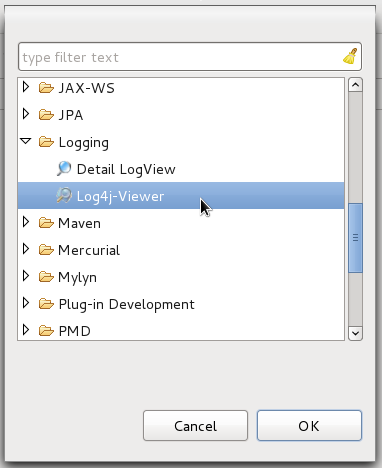
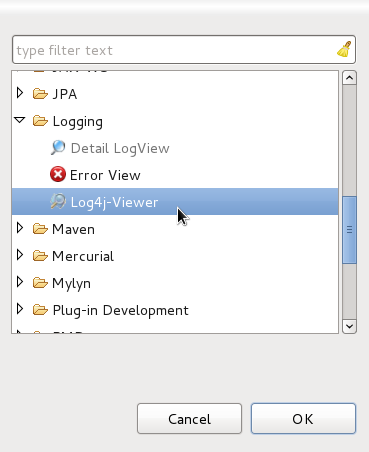
Tutorial project site was updated.

Changed region(s): [[0.0, 0.0, 1.0, 1.0]]

diff --git a/tutorial-site/index.html b/tutorial-site/index.html
@@ -129,7 +129,11 @@ Let's have a look into <b>LogView</b>. I've loaded some logs from text file:<p>
 <img alt="Image of main preferences" src="images/logview_description.png" hspace="6"><br><p>
 When we select any log in LogView table, <b>Detail LogView</b> is opened and displays more detail information about log:<p>
 <img alt="Image of main preferences" src="images/detail_logview.png" hspace="6"><br><p>
-<table height="30"><tr></tr></table>
+When an error occurs, while working with Log4j-viewer, the error button becomes enabled:<p>
+<img alt="Image of main preferences" src="images/error_button.png" hspace="6"><br><p>
+When press on this button, an error view opens and the error button becomes disabled, so the user will be always notified about a new error:<p>
+<img alt="Image of main preferences" src="images/error_view.png" hspace="6"><br><p>
+<table height="25"><tr></tr></table>
 
 If you have any questions about <b>Log4j-viewer</b> installation or its usage, please, email me at: <a href="mailto:rd.ryly@gmail.com">rd.ryly@gmail.com</a> (Ruslan Diachenko).
 </body>
